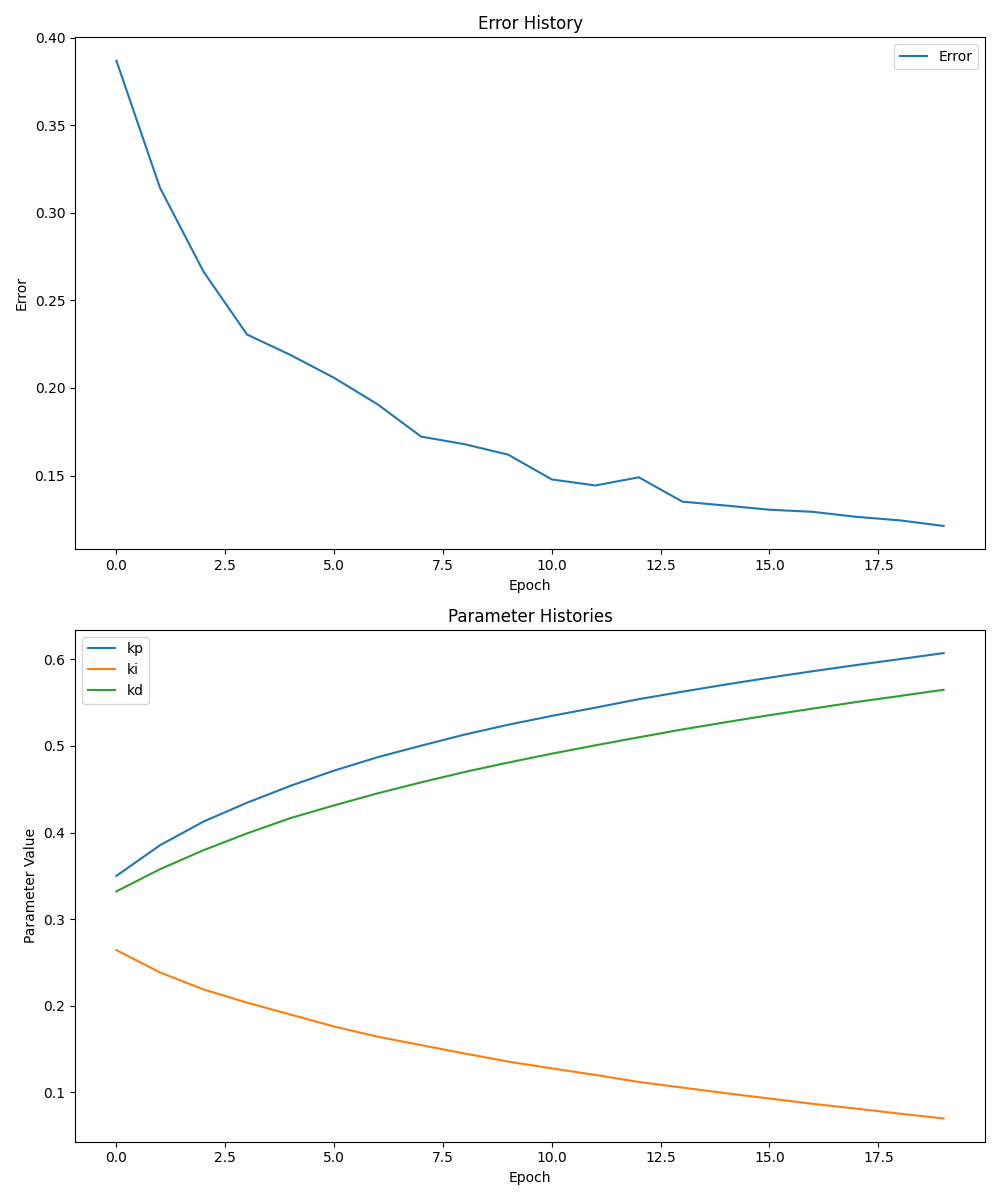
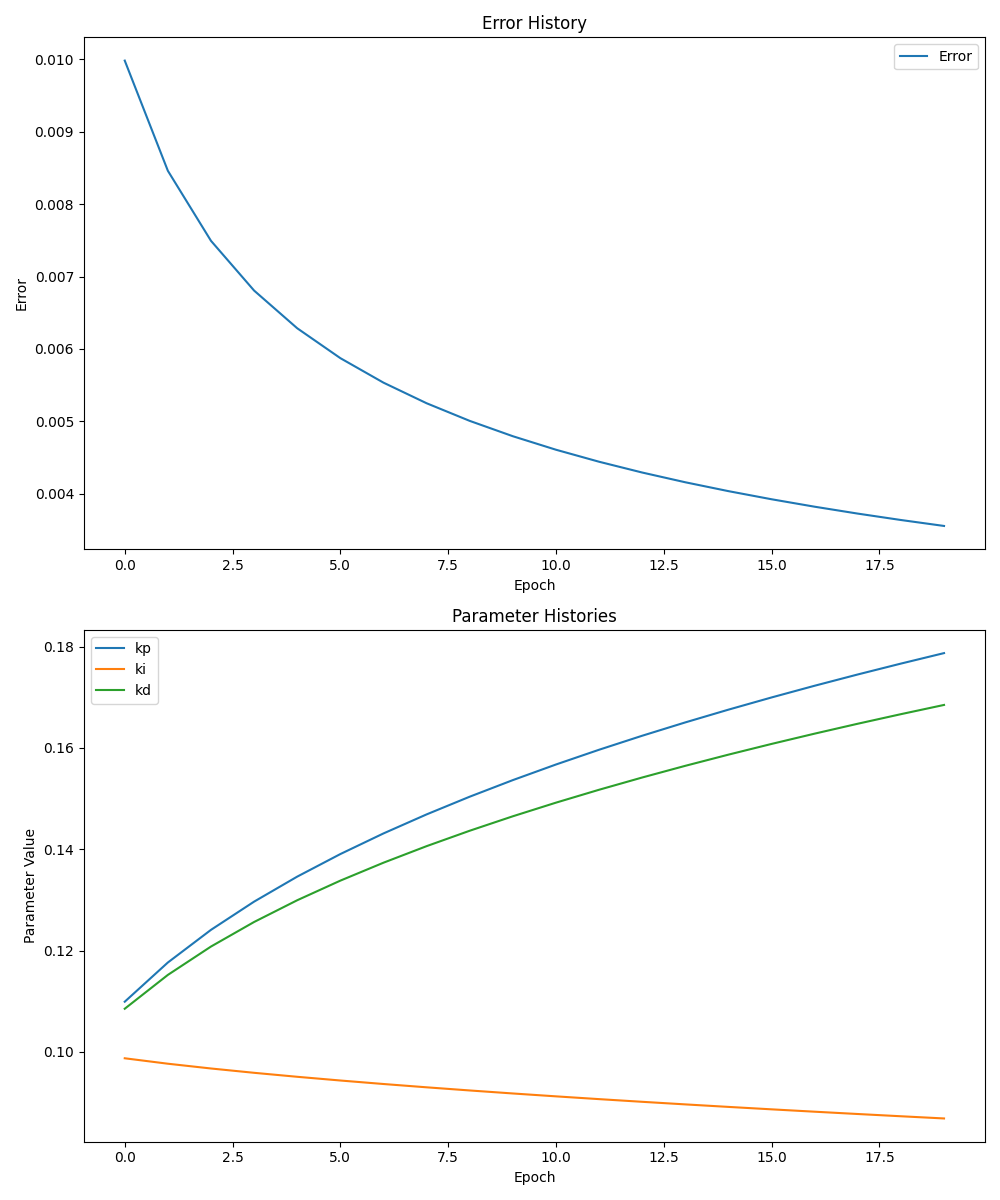
Add ann controller and test for differnt plants

diff --git a/consys.py b/consys.py
@@ -19,24 +19,25 @@ class CONSYS:
         self.learning_rate = config.learning_rate
         self.noise_range = config.noise_range
         self.param_history = []
+        self.params = []
 
         if config.plant == "bathtub":
             self.plant = BATHTUB_PLANT(config.A, config.C, config.H0)
         elif config.plant == "cournot":
-            self.plant = COURNOT_PLANT(config.pmax, config.cm, config.cournot_target, config.q1, config.q2)
+            self.plant = COURNOT_PLANT(
+                config.pmax, config.cm, config.cournot_target, config.q1, config.q2)
         elif config.plant == "chemical_reaction":
-            self.plant = CHEMICAL_REACTION_PLANT(config.k, config.chemical_plant_target, config.initial_concentration)
+            self.plant = CHEMICAL_REACTION_PLANT(
+                config.k, config.chemical_plant_target, config.initial_concentration)
         else:
             AttributeError(f"{config.plant} not supported")
 
         if config.controller == "classic":
             self.controller = PIDCONTROLLER()
         elif config.controller == "ann":
-            self.controller = ANNCONTROLLER(
-                config.num_layers, config.activation, config.weight_range)
+            self.controller = ANNCONTROLLER(config.layers, config.activation_function, config.weight_range)
         else:
             AttributeError(f"{config.controller} not supported")
-
 
     def run_system(self):
         gradfunc = jax.value_and_grad(self.run_one_epoch, argnums=0)
@@ -45,12 +46,9 @@ class CONSYS:
         if config.controller == "classic":
             self.params = jnp.array([config.kp, config.ki, config.kd])
         elif config.controller == "ann":
-            for _ in range(config.num_layers): 
-                self.params.append(
-                    np.random.uniform(-config.weight_range, config.weight_range))
+            self.params = self.controller.gen_jaxnet_params()
         else:
             AttributeError(f"{config.controller} not supported")
-
 
         epoch_error_history = []
         counter = 0
@@ -62,7 +60,7 @@ class CONSYS:
             self.params = self.update_params(self.params, gradients)
             self.param_history.append(self.params)
             print(f"Average error: {avg_error}")
-        
+
         return epoch_error_history, self.param_history
 
     def run_one_epoch(self, params):
@@ -75,22 +73,36 @@ class CONSYS:
         }
 
         for _ in range(self.num_timesteps):
-            state["control_signal"] = self.controller.compute_control_signal(params, state)
-            state["disturbance"] = random.uniform(-self.noise_range, self.noise_range)
+            state["control_signal"] = self.controller.compute_control_signal(
+                params, state)
+            state["disturbance"] = random.uniform(
+                -self.noise_range, self.noise_range)
             state["value"] = self.plant.execute_timestep(state)
             state["error_history"].append(self.plant.calculate_error(state))
         error_history_jax = jnp.array(state["error_history"])
         mean_squared_error = jnp.mean(jnp.square(error_history_jax))
         return mean_squared_error
 
-
     def update_params(self, params, gradients):
+        if config.controller == "classic":
+            return self.update_params_classic(params, gradients)
+        elif config.controller == "ann":
+            return self.update_params_ann(params, gradients)
+        else:
+            AttributeError(f"{config.controller} not supported")
+        
+    def update_params_classic(self, params, gradients):  
         if config.max_or_min == "max":
             q = 1
         else:
             q = -1
         new_params = []
         for i in range(len(params)):
-            new_params.append(params[i] + q * self.learning_rate * gradients[i])
-        print(new_params)
-        return new_params
+            new_params.append(
+                params[i] + q * self.learning_rate * gradients[i])
+        return new_params 
+    
+    def update_params_ann(self, params, gradients):
+        print(gradients)
+        return [(w - self.learning_rate * dw, b - self.learning_rate * db) 
+                for (w, b), (dw, db) in zip(params, gradients)]

diff --git a/config.py b/config.py
@@ -1,25 +1,31 @@
 # 1. The plant to simulate: "bathtub", "cournot", "chemical_reaction"
-plant = "cournot"
+plant = "bathtub"
 # 2. The controller to use: "classic" or "ann"
-controller = "classic"
+controller = "ann"
 # 3. Number of layers and number of neurons in each layer of the neural network.
-num_layers = 1
+layers = [5, 10, 5]
 # 4. Activation function used for each layer of the neural network. Possible values: "tanh", "sigmoid", "RELU".
-activation = "sigmoid"
+activation_function = "tanh"
 # 5. Range of acceptable initial values for each weight and bias in the neural network.
-weight_range = 1
+# For bathtub, cournot, weight range = 0.001 works good.
+weight_range = 0.001
 # 6. Number of training epochs
 num_epochs = 20
 # 7. Number of simulation timesteps of the CONSYS per epoch
+# For ann chemical_reaction: num_timesteps = 10 works good. Struggles with higher timesteps for some reason.
 num_timesteps = 50
 # 8. Learning rate for tuning the controller parameters, whether classic PID or neural-net-based.
 #For classic chemical_reaction: learning_rate = 0.05 works good. 
-# For classic bathtub and cournot, learning_rate = 0.3 works good.
+# For classic bathtub and cournot: learning_rate = 0.3 works good.
+# For ann bathtub: learning_rate = 0.01 works good.
+# For ann cournot: learning_rate = 0.3 works good.
 learning_rate = 0.3
 # 9. Range of acceptable values for noise / disturbance (D).
 # For classic chemical_reaction: noise_range = 0.05 works good.
 # For classic bathtub and cournot: noise_range = 0.01 works good.
-noise_range = 0.01
+# For ann bathtub: noise_range = 0.1 works good.
+# For ann cournot: noise_range = 0.01 works good.
+noise_range = 0.1
 # Initial values for pid parameters
 #For classic chemical_reaction: kp = 0.3, ki = 0.3, kd = 0.3 works good.
 #For classic bathtub and cournot: kp = 0.1, ki = 0.1, kd = 0.1 works good.
@@ -50,7 +56,8 @@ q2 = 0.5
 
 # Chemical reaction plant
 # 16. The rate constant (k) for the chemical reaction
-k = 0.2
+# For ann: k = 0.01 works good. Struggles with high k, as control signal is limited to [-1, 1] with sign
+k = 0.01
 # 17. The target concentration for the chemical reaction
 chemical_plant_target = 10
 # 18. The initial concentration for the chemical reaction

diff --git a/main.py b/main.py
@@ -12,33 +12,42 @@ def main():
     ki_history = []
     kd_history = []
 
-    for params in params_history:
-        kp_history.append(params[0])
-        ki_history.append(params[1])
-        kd_history.append(params[2])
-    
-    # Create a figure with 2 subplots
-    fig, (ax1, ax2) = plt.subplots(2, 1, figsize=(10, 12))  # 2 rows, 1 column
+    if config.controller == "classic":
+        for params in params_history:
+            kp_history.append(params[0])
+            ki_history.append(params[1])
+            kd_history.append(params[2])
+        
+        # Create a figure with 2 subplots
+        fig, (ax1, ax2) = plt.subplots(2, 1, figsize=(10, 12))  # 2 rows, 1 column
 
-    # Plot error history in the first subplot
-    ax1.plot(error_history, label='Error')
-    ax1.set_title('Error History')
-    ax1.set_xlabel('Epoch')
-    ax1.set_ylabel('Error')
-    ax1.legend()
+        # Plot error history in the first subplot
+        ax1.plot(error_history, label='Error')
+        ax1.set_title('Error History')
+        ax1.set_xlabel('Epoch')
+        ax1.set_ylabel('Error')
+        ax1.legend()
 
-    # Plot kp, ki, kd in the second subplot
-    ax2.plot(kp_history, label='kp')
-    ax2.plot(ki_history, label='ki')
-    ax2.plot(kd_history, label='kd')
-    ax2.set_title('Parameter Histories')
-    ax2.set_xlabel('Epoch')
-    ax2.set_ylabel('Parameter Value')
-    ax2.legend()
+        # Plot kp, ki, kd in the second subplot
+        ax2.plot(kp_history, label='kp')
+        ax2.plot(ki_history, label='ki')
+        ax2.plot(kd_history, label='kd')
+        ax2.set_title('Parameter Histories')
+        ax2.set_xlabel('Epoch')
+        ax2.set_ylabel('Parameter Value')
+        ax2.legend()
 
-    # Adjust layout
-    plt.tight_layout()
+        # Adjust layout
+        plt.tight_layout()
 
+    elif config.controller == "ann":
+        "Plot error history"
+        plt.plot(error_history, label='Error')
+        plt.title('Error History')
+        plt.xlabel('Epoch')
+        plt.ylabel('Error')
+        plt.legend()
+        
     # Save the plot as an image file
     plt.savefig(f'./plots/plot_{config.plant}_{config.controller}.png')
 

diff --git a/controllers/ANNcontroller.py b/controllers/ANNcontroller.py
@@ -1,7 +1,62 @@
+import numpy as np
 from controllers.controller import CONTROLLER, abstractmethod
-
+import jax.numpy as jnp
+import numpy as np
+import jax 
+import random
 
 class ANNCONTROLLER(CONTROLLER):
 
-    def compute_control_signal(args):
-        pass
+    def __init__(self, layers, activation_function, weight_range):
+        self.layers = layers
+        self.activation_function = activation_function
+        self.weight_range = weight_range
+
+    @staticmethod
+    def sigmoid(x):
+        return 1 / (1 + jnp.exp(-x))
+    
+    @staticmethod
+    def tanh(x):
+        return jnp.tanh(x)
+    
+    @staticmethod
+    def relu(x):
+        return jnp.maximum(0, x)
+    
+    
+    def execute_activation_func(self, signal):
+        if self.activation_function == "sigmoid":
+            return self.sigmoid(signal)
+        elif self.activation_function == "tanh":
+            return self.tanh(signal)
+        elif self.activation_function == "relu":
+            return self.relu(signal)
+
+    def gen_jaxnet_params(self):
+        sender = 3
+        self.layers.append(1)
+        params = []
+        for receiver in self.layers:
+            weights = np.random.uniform(-self.weight_range, self.weight_range,(receiver, sender))
+            biases = np.random.uniform(-self.weight_range, self.weight_range,(1,receiver))
+            sender = receiver
+            params.append([weights, biases])
+        return params
+
+    def compute_control_signal(self, params, state):
+        current_input = jnp.array([state["error_history"][-1], 
+                   state["error_history"][-2] - state["value"], 
+                   sum(state["error_history"])])
+        for i in range(len(params)):
+            weights = params[i][0]
+            biases = params[i][1][0]
+            activations = []
+            for j in range(len(weights)):
+                dot_product = jnp.dot(current_input,weights[j]) + biases[j]
+                activations.append(self.execute_activation_func(dot_product))
+            current_input = jnp.array(activations)
+        return current_input[0]
+
+    
+

diff --git a/plants/chemical_reaction_plant.py b/plants/chemical_reaction_plant.py
@@ -15,7 +15,6 @@ class CHEMICAL_REACTION_PLANT(PLANT):
 
         # Update concentration based on reaction rate and control signal
         new_concentration = current_concentration - self.k * current_concentration + control_signal + disturbance
-
         return new_concentration
 
     def get_initial_value(self):
